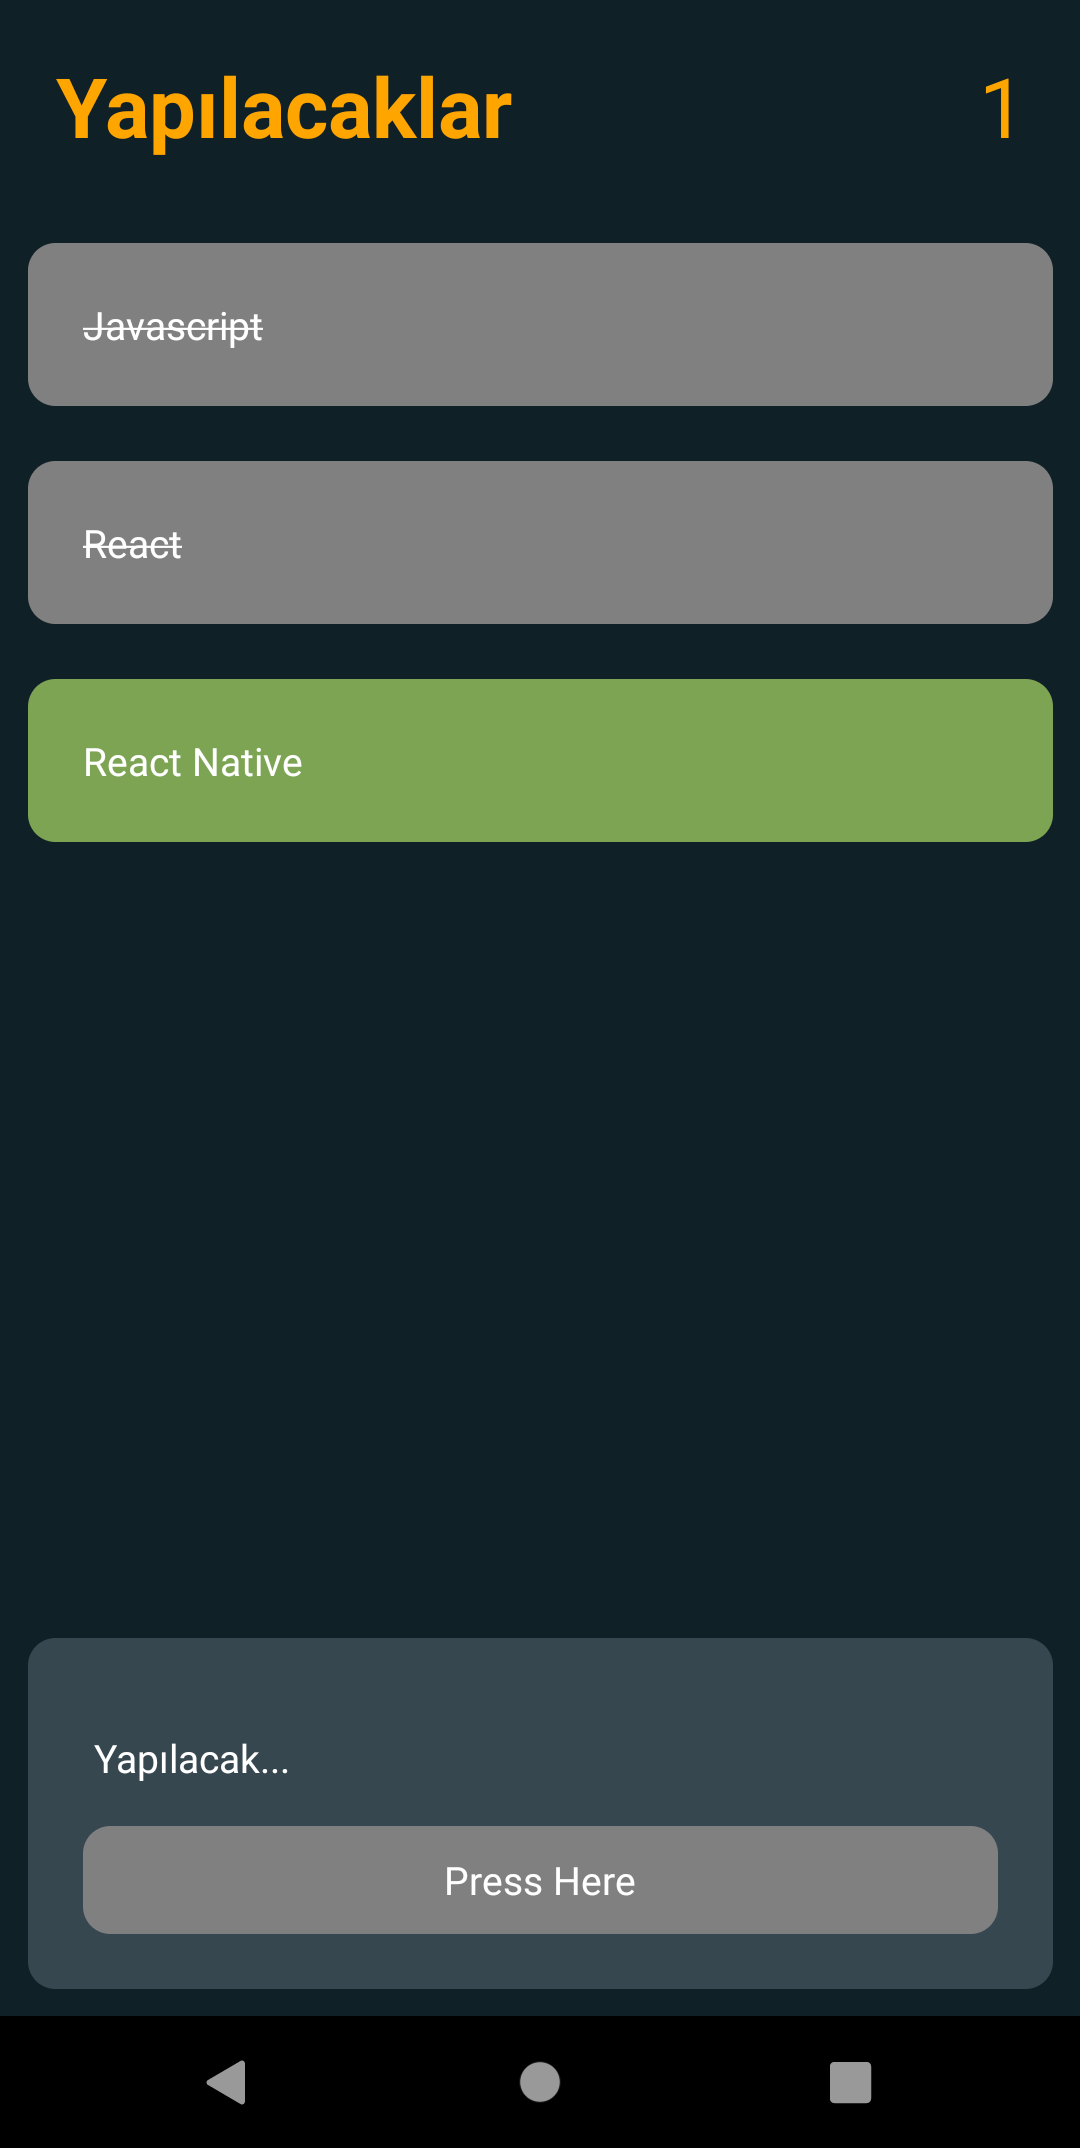
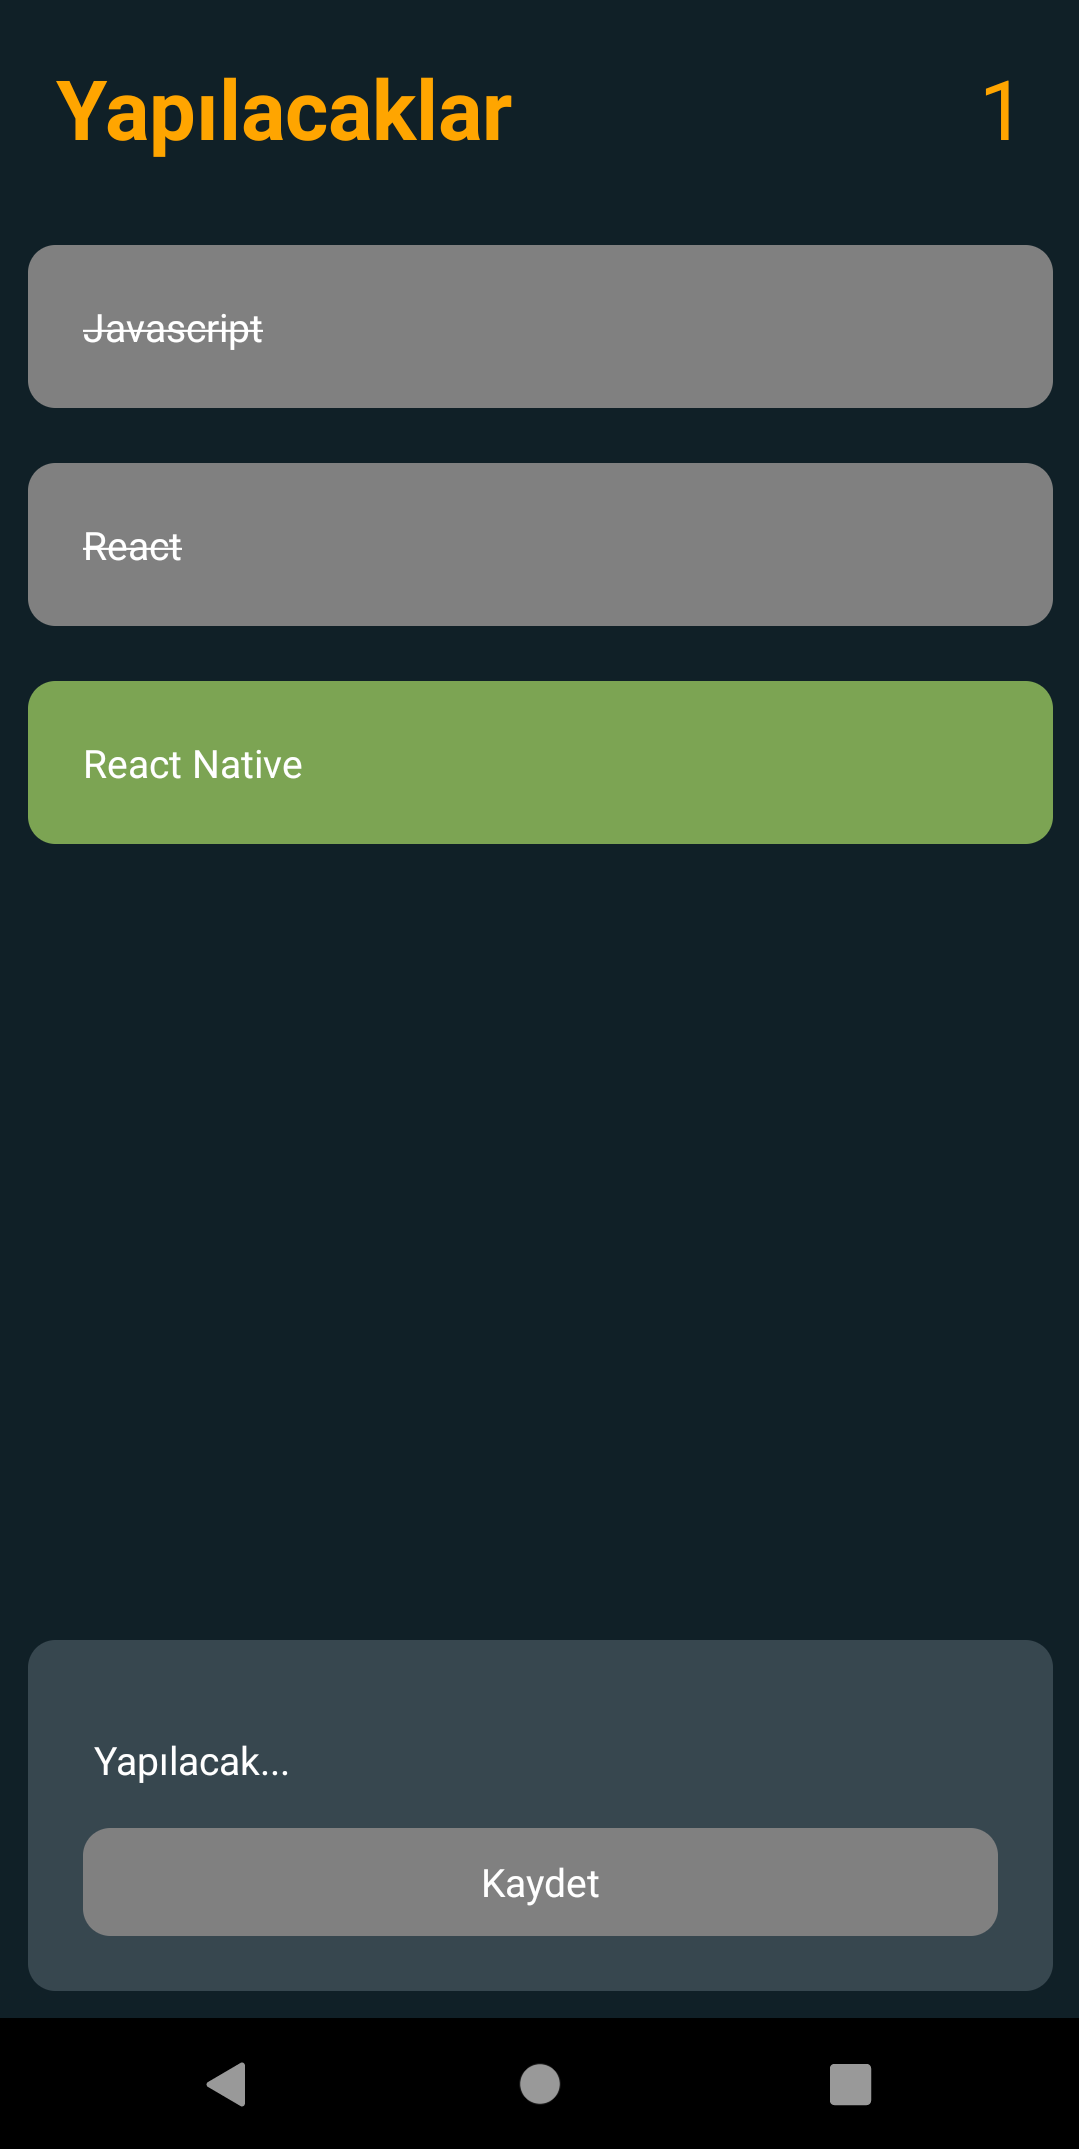
Buton yazı düzenlendi

diff --git a/App.js b/App.js
@@ -42,7 +42,7 @@ const App = () => {
       <TextInput value={value} onChangeText={text => setValue(text)} placeholder="something" placeholderTextColor="white" style={styles.inp} placeholder="Yapılacak..." />
       <TouchableOpacity onPress={() => onChangeText()}
         style={{ backgroundColor: 'gray', borderRadius: 10 }}>
-        <Text style={{ color: "white", textAlign: "center", padding: 10 }} on>Press Here</Text>
+        <Text style={{ color: "white", textAlign: "center", padding: 10 }} on>Kaydet</Text>
       </TouchableOpacity>
     </View>
   </SafeAreaView>
